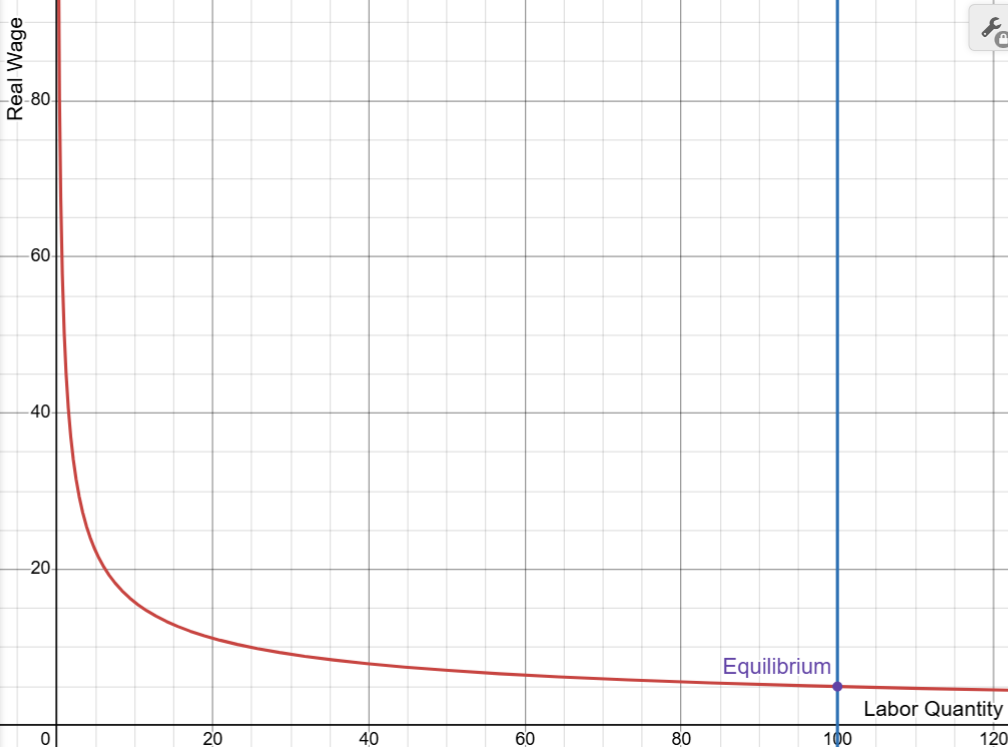
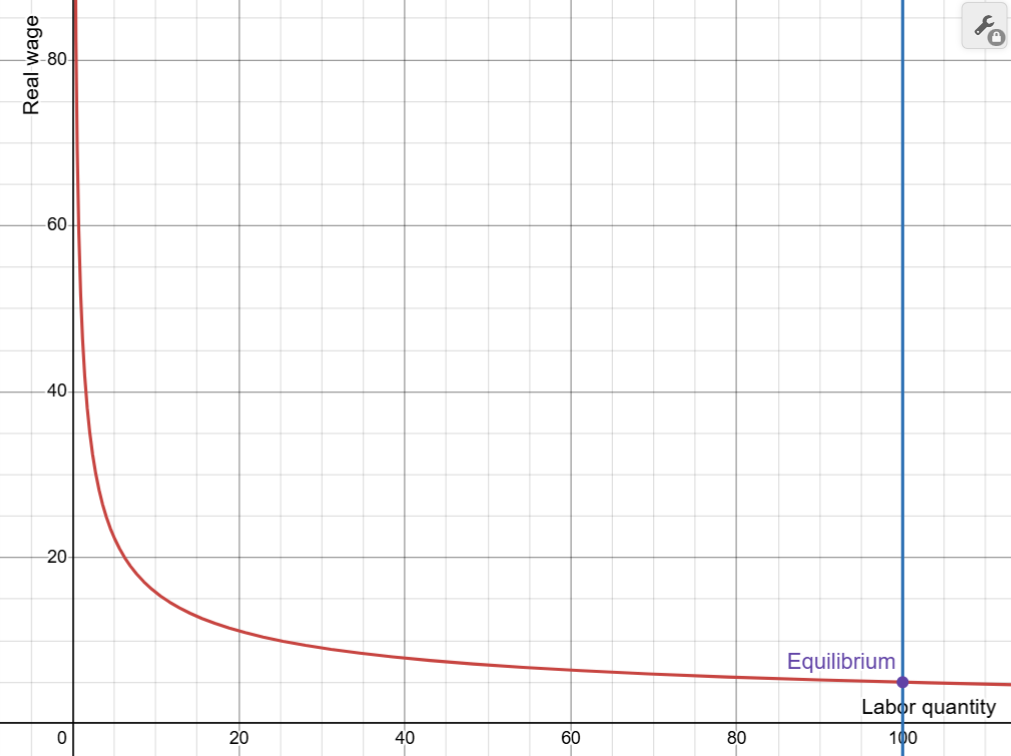
Upload image

diff --git a/src/problem-set-2.md b/src/problem-set-2.md
@@ -8,11 +8,11 @@ Professor Pricila Maziero
 
 ECON 11 Economics of Global Business
 
-## Question 1
+## Question 1: Labor market
 
 > Consider an economy with production function given by $Y=AK^{0.5}L^{0.5}$,
 > where $A$ is the total factor productivity, $K$ is the capital stock, and $L$
-> is the labor input. For simplicity, assume capital is fixed: $K=1$.
+> is the labor input. For simplicity, assume capital is fixed: $K=1$ unit.
 > Assume $A=100$.
 
 ### Question 1 Part A
@@ -22,10 +22,10 @@ ECON 11 Economics of Global Business
 
 In equilibrium, the firm chooses labor demand such that the marginal product of
 labor is equal to the real wage: this is quantity demanded for labor that
-maximizes output ($Y$).
+maximizes output $Y$.
 
 We can use this property to derive an expression for the optimal demand for
-labor ($L^\ast$) as a function of the real wage ($W/P$), where $P$ represents
+labor $L^\ast$ as a function of the real wage $W/P$, where $P$ represents
 the price of goods in the economy.
 
 $$\begin{align*}
@@ -45,28 +45,32 @@ L^\ast&=\left(2A^{-1}K^{-1}\cdot\frac{W}{P}\right)^{-2},\\
 L^\ast&=0.25A^{2}K^{2}\left(\frac{W}{P}\right)^{-2}.\\
 \end{align*}$$
 
-For $A=100,K=1$, we have:
+For $A=100$ and $K=1$ unit, we have:
 
 $$L^\ast=0.25\cdot 100^2\cdot 1^2\cdot\left(\frac{W}{P}\right)^{-2}=2500\left(\frac{W}{P}\right)^{-2}.$$
 
 ### Question 1 Part B
 
-> Assume labor supply is inelastic and fixed at $L=100$. Find the equilibrium
-> values of the wage and the employment level for this economy. Display
-> graphically the labor supply and the labor demand curves.
+> Assume labor supply is inelastic and fixed at $L=100$ units. Find the
+> equilibrium values of the wage and the employment level for this economy.
+> Display graphically the labor supply and the labor demand curves.
 
 Using our expression for the real wage, we can solve for $W/P$, the real wage,
-for a given labor supply; for $L=100$, we have:
+for a given labor supply; for $L=100$ units, we have:
 
 $$\begin{align*}
 \frac{W}{P}&=0.5\cdot 100\cdot 1\cdot (100)^{-0.5}=5.\\
 \end{align*}$$
 
-Thus, the real wage is 5 units.
+Thus, the equilibrium real wage is 5 units and the equilibrium labor supply is
+100 units.
 
 __Market for labor: marginal product of labor (demand) *vs.* labor supply.__
 
 ![Market for labor](https://github.com/ishanpranav/econ-11-economics-of-global-business/blob/master/images/problem-set-2-1-2.png?raw=true "Market for labor")
+
+The downward-sloping demand curve is given in red; the vertical supply curve is
+given in blue.
 
 ### Question 1 Part C
 
@@ -74,7 +78,200 @@ __Market for labor: marginal product of labor (demand) *vs.* labor supply.__
 > productivity is now $A'=200$. Display graphically the new labor demand
 > function. What are the equilibrium values of employment and the real wage?
 
-Based on our expression for the marginal product of labor, labor demand is
-scaled proportionally.
+For $A=200$ and $L=100$ units, we have:
+
+$$\begin{align*}
+\frac{W}{P}&=0.5\cdot 200\cdot 1\cdot (100)^{-0.5}=10.\\
+\end{align*}$$
+
+Thus, the new equilibrium real wage is 10 units and the equilibrium labor supply
+remains 100 units.
+
+__Market for labor: marginal product of labor (modified *vs.* original) *vs.* labor supply.__
 
 ![Market for labor, adjusted](https://github.com/ishanpranav/econ-11-economics-of-global-business/blob/master/images/problem-set-2-1-3.png?raw=true "Market for labor, adjusted")
+
+The downward-sloping demand curves are given in red (the solid line marks the
+modified demand curve); the vertical supply curve is given in blue.
+
+### Question 1 Part D
+
+> Compute the total output when $A=100$ and when $A=200$. What is the output’s
+> growth rate? Compare that growth rate with the growth rate of $A$. How does
+> the growth rate of output per capita compare to the growth rate of $A$?
+
+We can derive an expression for $Y$ as a function of $A$.
+
+$$\begin{align*}
+Y&=AK^{0.5}L^{0.5},\\
+&=A\cdot(1)^{0.5}(100)^{0.5},\\
+&=10A.
+\end{align*}$$
+
+We assume that the labor force comprises the entire population, so that per
+capita and per worker are equivalent.
+
+For $A=100$, we have $Y=10\cdot 100=1000$ units of account. Output per capita
+$\frac{Y}{L}=\frac{1000}{100}=10$ units of account.
+
+For $A=200$, we have $Y=10\cdot 200=2000$ units of account. Output per capita
+$\frac{Y}{L}=\frac{2000}{100}=20$ units of account.
+
+We observe that a 100-percent increase in $A$ corresponds to a 100-percent
+increase in $Y$, indicating constant returns to scale and consistent with our
+understanding of total factor productivity.
+
+Of course, with labor constant, the same constant-returns-to-scale relationship
+also holds between total factor productivity and output per capita.
+
+### Question 1 Part E
+
+> Now, suppose that Congress, concerned about the welfare of the working class,
+> passes a law setting the minimum wage that is 10 percent above the equilibrium
+> wage you just derived (in the case where $A=100$). Assuming that Congress
+> cannot dictate how many workers are hired at the mandated wage, what are the
+> effects of this law? Specifically, calculate what happens to the real wage,
+> the employment, the output, and the total amount earned by workers.
+
+The government has introduced an effective wage floor at 10 percent above the
+current equilibrium real wage of 5 units. This means that the effective real
+wage increases to 5.5 units.
+
+For a real wage of 5.5 units, we have:
+
+$$L'=2500\cdot(5.5)^{-2}\approx 82.6446\dots~\approx 82.$$
+
+Thus, the new quantity of labor demanded, $L'$, is about 82 units. The reduction
+in labor input causes output to decline.
+
+$$\begin{align*}
+Y&=AK^{0.5}L^{0.5},\\
+&\approx 100\cdot(1)^{0.5}\cdot(82.6446\dots)^{0.5},\\
+&\approx 909.\overline{09}.
+\end{align*}$$
+
+The new output is about 909.09 units of account, down from 1000.00 units of
+account before the minimum wage.
+
+The total amount earned by workers is labor'sshare of output, or $0.5Y$ in this
+model.
+
+$$0.5Y\approx 0.5\cdot 909.\overline{09}\approx 454.\overline{54}.$$
+
+The total amount earned by workers is about 454.54 units of account, down from
+500.00 before the minimum wage.
+
+### Question 1 Part F
+
+> Does Congress succeed in its goal of helping the working class?
+
+No, the proposed minimum wage intends to benefit the working class but reduces
+the total amount earned by workers from 500.00 units of account to about 454.54
+units of account.
+
+Although the real wage increases, the number of employed workers decreases, so
+the collective working class is worse off. In this case, the minimum wage
+contributes to unemployment and prioritizes individual workers' outcomes at the
+expense of the working class and the broader economy.
+
+### Question 1 Part G
+
+> Do you think the analysis provides a good way of thinking about a minimum-wage
+> law? Why or why not?
+
+Yes, this analysis offers a framework for demonsrtating how a minimum wage can
+be destructive to the economy and counterproductive to its aims.
+
+However, like any model, the Cobb–Douglass production function is a product of,
+and thus limited by, its assumptions. No decision should be made using a single
+model, and our Cobb–Douglass-based analysis fails to capture frictions in the
+labor market and may overestimate how easily labor can be replaced or
+eliminated.
+
+## Question 2: Supply and demand in the neoclassical economy
+
+> Consider an economy in which the consumption, investment and production
+> functions are as follows, where $C$ denotes consumption, $I$ denotes
+> investment, $r$ denotes the real interest rate, and $F$ denotes the production
+> function. Let capital supply $K=100$ units, labor supply $L=100$ units, total
+> factor productivity $A=10$, government expenditure $G=200$ units of account,
+> and government tax revenue $T=200$ units of account.
+
+$$C=90+0.7(Y −T).$$
+
+$$I=250−20r.$$
+
+$$F(K,L)=AK^{\frac{1}{2}}L^{\frac{1}{2}}.$$
+
+> Compute the equilibrium values of output, overall labor income, consumption,
+> public savings, national savings, investment, and the interest rate.
+
+Total output is given by the production function.
+
+$$Y=F(K,L)=10\cdot(100)^{\frac{1}{2}}\cdot(100)^{\frac{1}{2}}=1000.$$
+
+In this model, labor's share of income is one-half, so labor income is $\frac{1}{2}Y=\frac{1}{2}(1000)=500$ units of account.
+
+Consumption is given by the consumption function.
+
+$$C=90+0.7(1000-200)=650.$$
+
+Private savings $Y-T-C$ is given by earnings retained after taxes and
+consumption.
+
+$$Y-T-C=1000-200-650=150.$$
+
+Public savings $T-G$ is given by government tax receipts after expenditures.
+
+$$T-G=200-200=0.$$
+
+Since $T=G$, private savings comprise all national savings. In equilibrium,
+savings equals investment, so $I=150$.
+
+$$I=150=250-20r\Rightarrow r=5\%.$$
+
+In equilibrium, output is 1000 units of account, overall labor income is 500
+units of account, consumption is 650 units of account, public savings is 0,
+national savings is 150 units of account, investment is 150 units of account,
+and the real interest rate is 5 percent.
+
+> Suppose now government spending increases to $G=250$ units of account
+> *Caeteris paribus*, what happens to output, consumption, savings, investment
+> and the interest rate?
+
+Total output, labor income, consumption, and private savings do not depend on
+$G$: They are unchanged.
+
+Public savings $T-G$ is given by government tax receipts after expenditures.
+
+$$T-G=200-250=-50.$$
+
+Since $T<G$, national savings is private savings, offset by public deficit:
+$150-50=100$. In equilibrium, savings equals investment, so $I=100$.
+
+$$I=100=250-20r\Rightarrow r=7.5\%.$$
+
+After the increase in government spending, output remains 1000 units of account,
+overall labor income remains 500 units of account, consumption remains 650 units
+of account, public savings falls to -50 units of account, national savings falls
+to 100 units of account, investment falls to 100 units of account, and the real
+interest rate rises to 7.5 percent.
+
+## Question 3: Emerging market forecasting and growth accounting
+
+> What drives gross domestic product (GDP) growth in Brazil and China? How do
+> they compare to each other? Assume that, in both countries, payments to labor
+> $1-\alpha=\frac{2}{3}$.
+
+We will use real GDP and real capital stock at constant prices (2017), and
+employment, number of persons engaged—both by Robert C. Feenstra, Robert Inklaar
+and Marcel P. Timmer, and available from the
+[Penn World Table 10.01](https://www.rug.nl/ggdc/productivity/pwt/?lang=en).
+
+### Question 3 Part A
+
+> How has GDP per worker evolved in the two countries?
+
+__GDP per worker for Brazil and China, 1980–2019.__
+
+![GDP per worker for Brazil and China, 1980–2019.](https://github.com/ishanpranav/econ-11-economics-of-global-business/blob/master/images/problem-set-2-3-1.png?raw=true "GDP per worker for Brazil and China, 1980–2019")
